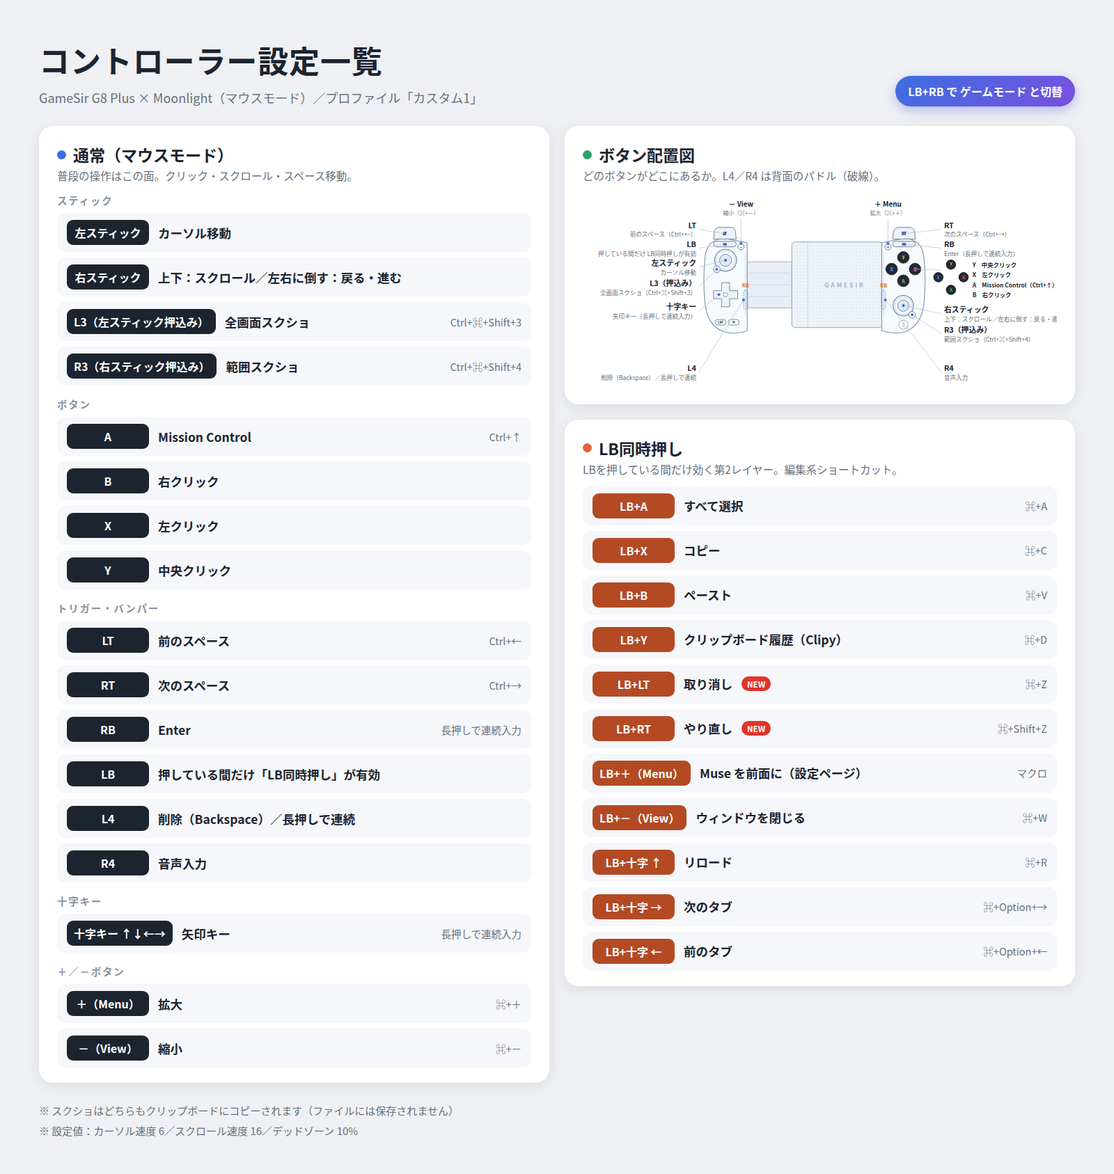
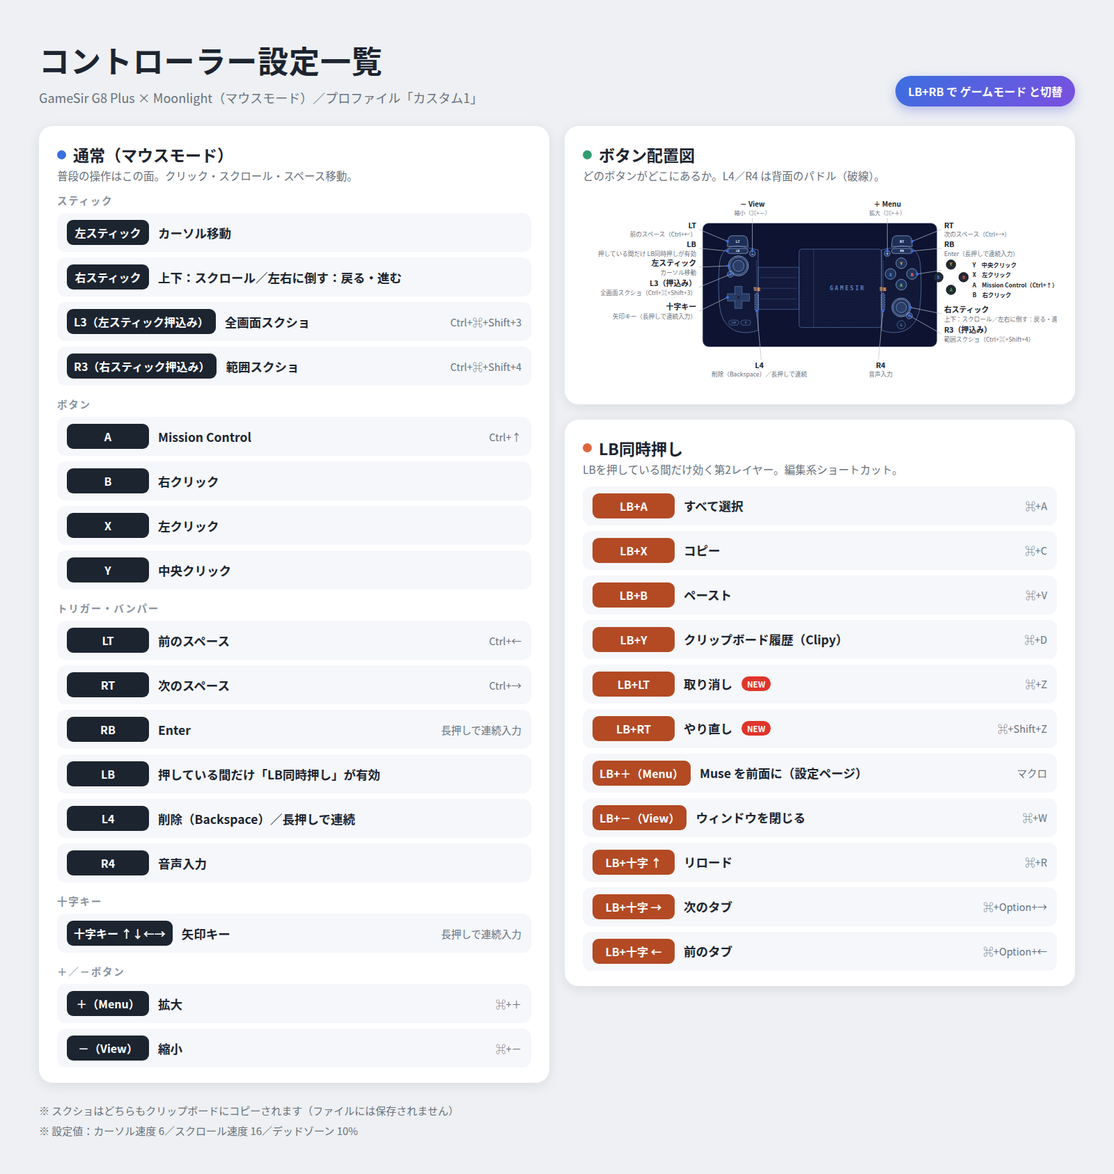
controller-map 案3: 配置図をSpaceのSVGそのものに差し替え（濃紺パネル無改変配置）

Changed region(s): [[0.625, 0.1541, 0.8438, 0.3391], [0.8438, 0.3082, 0.875, 0.3391], [0.5938, 0.3082, 0.625, 0.3391]]

diff --git a/controller-map/v3.html b/controller-map/v3.html
@@ -2,6 +2,8 @@
 <html lang="ja">
 <head>
 <meta charset="utf-8">
+<link rel="preconnect" href="https://fonts.googleapis.com">
+<link href="https://fonts.googleapis.com/css2?family=JetBrains+Mono:wght@700&family=Zen+Kaku+Gothic+New:wght@900&display=swap" rel="stylesheet">
 <title>コントローラー設定一覧｜案</title>
 <style>
 
@@ -51,77 +53,78 @@ footer { margin-top: 4px; font-size: 15px; color: #68707c; line-height: 1.9; }
     <div class="card diagram">
       <h2><span class="dot"></span>ボタン配置図</h2>
       <p class="lead">どのボタンがどこにあるか。L4／R4 は背面のパドル（破線）。</p>
-      <svg viewBox="0 0 1504 640">
-<g transform="translate(166.6 19.5) scale(1.16)">
+      <svg viewBox="0 0 1504 640"><rect x="380" y="96" width="744" height="393.2" rx="20" fill="#0d1330" stroke="#c9d2de" stroke-width="1.5"/><clipPath id="panel-clip"><rect x="380" y="96" width="744" height="393.2" rx="20"/></clipPath><g clip-path="url(#panel-clip)"><g transform="translate(231.2 53.5) scale(1.06286)">
   <defs>
     <pattern id="plate-dots" width="9" height="9" patternUnits="userSpaceOnUse">
-      <circle cx="2" cy="2" r="1" fill="#b9c8da"/>
+      <circle cx="2" cy="2" r="1" fill="rgba(140,170,230,0.13)"/>
     </pattern>
     <pattern id="back-hatch" width="6" height="6" patternUnits="userSpaceOnUse" patternTransform="rotate(45)">
-      <line x1="0" y1="0" x2="0" y2="6" stroke="rgba(59,111,224,0.45)" stroke-width="2"/>
+      <line x1="0" y1="0" x2="0" y2="6" stroke="rgba(160,190,255,0.55)" stroke-width="2"/>
     </pattern>
   </defs>
-  <rect x="306" y="172" width="122" height="126" fill="#e8eef5" stroke="#93a5bb" stroke-width="1.6"/>
-  <g stroke="#b9c6d6" stroke-width="1">
-    <line x1="312" y1="203" x2="422" y2="203"/><line x1="312" y1="235" x2="422" y2="235"/><line x1="312" y1="267" x2="422" y2="267"/>
+  <rect x="306" y="172" width="122" height="126" fill="rgba(120,160,255,0.06)" stroke="#5f7bb3" stroke-width="1.2"/>
+  <g stroke="#5f7bb3" stroke-width="1" opacity="0.7">
+    <line x1="312" y1="203" x2="422" y2="203"/>
+    <line x1="312" y1="235" x2="422" y2="235"/>
+    <line x1="312" y1="267" x2="422" y2="267"/>
   </g>
-  <rect x="428" y="118" width="246" height="234" rx="8" fill="#eef3f8" stroke="#93a5bb" stroke-width="1.9"/>
+  <rect x="428" y="118" width="246" height="234" rx="8" fill="rgba(120,160,255,0.04)" stroke="#5f7bb3" stroke-width="1.4"/>
   <rect x="428" y="118" width="246" height="234" rx="8" fill="url(#plate-dots)"/>
-  <line x1="472" y1="118" x2="472" y2="352" stroke="#b9c6d6" stroke-width="1"/>
-  <text x="573" y="235" text-anchor="middle" dominant-baseline="central" font-size="17" letter-spacing="5" fill="#a7b8cc" font-weight="700">GAMESIR</text>
-  <path d="M306 120 L244 108 Q198 110 191 156 Q184 226 191 288 Q198 348 244 364 Q276 372 306 360 Z" fill="#f7fafc" stroke="#7e93ad" stroke-width="2.1"/>
-  <path d="M674 120 L736 108 Q782 110 789 156 Q796 226 789 288 Q782 348 736 364 Q704 372 674 360 Z" fill="#f7fafc" stroke="#7e93ad" stroke-width="2.1"/>
-  <g stroke="#b9c6d6" stroke-width="1"><line x1="301" y1="150" x2="301" y2="320"/><line x1="679" y1="150" x2="679" y2="320"/></g>
-  <g>
-    <path d="M214 110 L216 90 Q218 78 230 78 L260 78 Q272 78 274 90 L276 110 Z" fill="#eef2f7" stroke="#637b96" stroke-width="1.8"/>
-    <text x="245" y="95" text-anchor="middle" dominant-baseline="central" font-size="11" font-weight="700" fill="#1c2430">LT</text>
-    <rect x="214" y="116" width="62" height="15" rx="7.5" fill="#eef2f7" stroke="#637b96" stroke-width="1.8"/>
-    <text x="245" y="124" text-anchor="middle" dominant-baseline="central" font-size="9" font-weight="700" fill="#1c2430">LB</text>
-    <path d="M704 110 L706 90 Q708 78 720 78 L750 78 Q762 78 764 90 L766 110 Z" fill="#eef2f7" stroke="#637b96" stroke-width="1.8"/>
-    <text x="735" y="95" text-anchor="middle" dominant-baseline="central" font-size="11" font-weight="700" fill="#1c2430">RT</text>
-    <rect x="704" y="116" width="62" height="15" rx="7.5" fill="#eef2f7" stroke="#637b96" stroke-width="1.8"/>
-    <text x="735" y="124" text-anchor="middle" dominant-baseline="central" font-size="9" font-weight="700" fill="#1c2430">RB</text>
+  <line x1="472" y1="118" x2="472" y2="352" stroke="#5f7bb3" stroke-width="1" opacity="0.7"/>
+  <text x="573" y="235" text-anchor="middle" dominant-baseline="central" font-size="17" letter-spacing="5" fill="#5f7bb3" font-weight="700" style="font-family:'JetBrains Mono',monospace">GAMESIR</text>
+  <path d="M306 120 L244 108 Q198 110 191 156 Q184 226 191 288 Q198 348 244 364 Q276 372 306 360 Z" fill="rgba(120,160,255,0.04)" stroke="#5f7bb3" stroke-width="1.6"/>
+  <path d="M674 120 L736 108 Q782 110 789 156 Q796 226 789 288 Q782 348 736 364 Q704 372 674 360 Z" fill="rgba(120,160,255,0.04)" stroke="#5f7bb3" stroke-width="1.6"/>
+  <g stroke="#5f7bb3" stroke-width="1" opacity="0.8">
+    <line x1="301" y1="150" x2="301" y2="320"/>
+    <line x1="679" y1="150" x2="679" y2="320"/>
   </g>
-  <g>
-    <circle cx="247" cy="168" r="30" fill="#f2f6fa" stroke="#637b96" stroke-width="2.0"/>
-    <circle cx="247" cy="168" r="26" fill="none" stroke="#c2d0e0" stroke-width="1.6"/>
-    <circle cx="247" cy="168" r="16.5" fill="#dfe8f2" stroke="#637b96" stroke-width="1.6"/>
-    <circle cx="223" cy="193" r="9" fill="#ffffff" stroke="#637b96" stroke-width="1.8"/>
-    <circle cx="733" cy="292" r="28" fill="#f2f6fa" stroke="#637b96" stroke-width="2.0"/>
-    <circle cx="733" cy="292" r="24" fill="none" stroke="#c2d0e0" stroke-width="1.6"/>
-    <circle cx="733" cy="292" r="15.4" fill="#dfe8f2" stroke="#637b96" stroke-width="1.6"/>
-    <circle cx="757" cy="317" r="9" fill="#ffffff" stroke="#637b96" stroke-width="1.8"/>
-  </g>
-  <circle cx="289" cy="131" r="8.5" fill="#ffffff" stroke="#637b96" stroke-width="1.8"/>
-  <text x="289" y="132" text-anchor="middle" dominant-baseline="central" font-size="11" font-weight="700" fill="#1c2430">−</text>
-  <path d="M236 229 h22 v22 h22 v22 h-22 v22 h-22 v-22 h-22 v-22 h22 Z" fill="#eef2f7" stroke="#637b96" stroke-width="1.7"/>
-  <circle cx="247" cy="262" r="6" fill="#ffffff" stroke="#637b96" stroke-width="1.4"/>
-  <g>
-    <rect x="218" y="330" width="30" height="15" rx="7.5" fill="#ffffff" stroke="#637b96" stroke-width="1.7"/>
-    <text x="233" y="338" text-anchor="middle" dominant-baseline="central" font-size="8" font-weight="700" fill="#1c2430">CAP</text>
-    <rect x="254" y="330" width="30" height="15" rx="7.5" fill="#ffffff" stroke="#637b96" stroke-width="1.7"/>
-    <text x="269" y="338" text-anchor="middle" dominant-baseline="central" font-size="8" font-weight="700" fill="#1c2430">M</text>
-  </g>
-  <rect x="296" y="250" width="11" height="52" rx="5" fill="url(#back-hatch)" stroke="#3b6fe0" stroke-width="1.3" stroke-dasharray="4 3"/>
-  <rect x="673" y="250" width="11" height="52" rx="5" fill="url(#back-hatch)" stroke="#3b6fe0" stroke-width="1.3" stroke-dasharray="4 3"/>
-  <text x="301" y="240" text-anchor="middle" font-size="10" font-weight="900" fill="#d97a2b">背面</text>
-  <text x="679" y="240" text-anchor="middle" font-size="10" font-weight="900" fill="#d97a2b">背面</text>
-  <circle cx="691" cy="131" r="8.5" fill="#ffffff" stroke="#637b96" stroke-width="1.8"/>
-  <text x="691" y="132" text-anchor="middle" dominant-baseline="central" font-size="10" font-weight="700" fill="#1c2430">＋</text>
-  <g>
-    <circle cx="733" cy="160" r="16" fill="#232a35" stroke="#10151c" stroke-width="1.4"/>
-    <text x="733" y="161" text-anchor="middle" dominant-baseline="central" font-size="13" font-weight="700" fill="#f5c542">Y</text>
-    <circle cx="701" cy="192" r="16" fill="#232a35" stroke="#10151c" stroke-width="1.4"/>
-    <text x="701" y="193" text-anchor="middle" dominant-baseline="central" font-size="13" font-weight="700" fill="#5b9dff">X</text>
-    <circle cx="765" cy="192" r="16" fill="#232a35" stroke="#10151c" stroke-width="1.4"/>
-    <text x="765" y="193" text-anchor="middle" dominant-baseline="central" font-size="13" font-weight="700" fill="#ff6b5e">B</text>
-    <circle cx="733" cy="224" r="16" fill="#232a35" stroke="#10151c" stroke-width="1.4"/>
-    <text x="733" y="225" text-anchor="middle" dominant-baseline="central" font-size="13" font-weight="700" fill="#7ac74f">A</text>
-  </g>
-  <circle cx="733" cy="344" r="12.5" fill="#ffffff" stroke="#93a5bb" stroke-width="1.9"/>
-  <text x="733" y="345" text-anchor="middle" dominant-baseline="central" font-size="11" font-weight="700" fill="#a7b8cc">G</text>
-</g>
-<text x="502" y="44" text-anchor="middle" font-size="22" font-weight="700" fill="#1c2430">－ View</text><text x="502" y="70" text-anchor="middle" font-size="17.5" fill="#68707c">縮小（⌘+－）</text><line x1="502" y1="80" x2="502" y2="161" stroke="#b6bfca" stroke-width="1.6"/><circle cx="502" cy="161" r="4.5" fill="#3b6fe0"/><text x="968" y="44" text-anchor="middle" font-size="22" font-weight="700" fill="#1c2430">＋ Menu</text><text x="968" y="70" text-anchor="middle" font-size="17.5" fill="#68707c">拡大（⌘+＋）</text><line x1="968" y1="80" x2="968" y2="161" stroke="#b6bfca" stroke-width="1.6"/><circle cx="968" cy="161" r="4.5" fill="#3b6fe0"/><text x="360" y="112" text-anchor="end" font-size="24" font-weight="700" fill="#1c2430">LT</text><text x="360" y="140" text-anchor="end" font-size="19" fill="#68707c">前のスペース（Ctrl+←）</text><line x1="368" y1="116" x2="451" y2="130" stroke="#b6bfca" stroke-width="1.6"/><circle cx="451" cy="130" r="4.5" fill="#3b6fe0"/><text x="360" y="172" text-anchor="end" font-size="24" font-weight="700" fill="#1c2430">LB</text><text x="360" y="200" text-anchor="end" font-size="19" fill="#68707c">押している間だけ LB同時押しが有効</text><line x1="368" y1="176" x2="451" y2="163" stroke="#b6bfca" stroke-width="1.6"/><circle cx="451" cy="163" r="4.5" fill="#3b6fe0"/><text x="360" y="232" text-anchor="end" font-size="24" font-weight="700" fill="#1c2430">左スティック</text><text x="360" y="260" text-anchor="end" font-size="19" fill="#68707c">カーソル移動</text><line x1="368" y1="236" x2="453" y2="214" stroke="#b6bfca" stroke-width="1.6"/><circle cx="453" cy="214" r="4.5" fill="#3b6fe0"/><text x="360" y="296" text-anchor="end" font-size="24" font-weight="700" fill="#1c2430">L3（押込み）</text><text x="360" y="324" text-anchor="end" font-size="19" fill="#68707c">全画面スクショ（Ctrl+⌘+Shift+3）</text><line x1="368" y1="300" x2="425" y2="243" stroke="#b6bfca" stroke-width="1.6"/><circle cx="425" cy="243" r="4.5" fill="#3b6fe0"/><text x="360" y="372" text-anchor="end" font-size="24" font-weight="700" fill="#1c2430">十字キー</text><text x="360" y="400" text-anchor="end" font-size="19" fill="#68707c">矢印キー（長押しで連続入力）</text><line x1="368" y1="376" x2="432" y2="323" stroke="#b6bfca" stroke-width="1.6"/><circle cx="432" cy="323" r="4.5" fill="#3b6fe0"/><text x="1146" y="112" font-size="24" font-weight="700" fill="#1c2430">RT</text><text x="1146" y="140" font-size="19" fill="#68707c">次のスペース（Ctrl+→）</text><line x1="1019" y1="130" x2="1138" y2="116" stroke="#b6bfca" stroke-width="1.6"/><circle cx="1019" cy="130" r="4.5" fill="#3b6fe0"/><text x="1146" y="172" font-size="24" font-weight="700" fill="#1c2430">RB</text><text x="1146" y="200" font-size="19" fill="#68707c">Enter（長押しで連続入力）</text><line x1="1019" y1="163" x2="1138" y2="176" stroke="#b6bfca" stroke-width="1.6"/><circle cx="1019" cy="163" r="4.5" fill="#3b6fe0"/><line x1="1054" y1="242" x2="1138" y2="246" stroke="#b6bfca" stroke-width="1.6"/><circle cx="1054" cy="242" r="4.5" fill="#3b6fe0"/><circle cx="1168" cy="228" r="15" fill="#232a35" stroke="#10151c" stroke-width="2"/><text x="1168" y="233" text-anchor="middle" font-size="13.5" font-weight="700" fill="#e8a90c">Y</text><circle cx="1128" cy="268" r="15" fill="#232a35" stroke="#10151c" stroke-width="2"/><text x="1128" y="273" text-anchor="middle" font-size="13.5" font-weight="700" fill="#3d8bfd">X</text><circle cx="1208" cy="268" r="15" fill="#232a35" stroke="#10151c" stroke-width="2"/><text x="1208" y="273" text-anchor="middle" font-size="13.5" font-weight="700" fill="#e0524d">B</text><circle cx="1168" cy="308" r="15" fill="#232a35" stroke="#10151c" stroke-width="2"/><text x="1168" y="313" text-anchor="middle" font-size="13.5" font-weight="700" fill="#4caf50">A</text><text x="1236" y="236" font-size="18.5" font-weight="700" fill="#1c2430">Y　中央クリック</text><text x="1236" y="268" font-size="18.5" font-weight="700" fill="#1c2430">X　左クリック</text><text x="1236" y="300" font-size="18.5" font-weight="700" fill="#1c2430">A　Mission Control（Ctrl+↑）</text><text x="1236" y="332" font-size="18.5" font-weight="700" fill="#1c2430">B　右クリック</text><text x="1146" y="380" font-size="24" font-weight="700" fill="#1c2430">右スティック</text><text x="1146" y="408" font-size="19" fill="#68707c">上下：スクロール／左右に倒す：戻る・進む</text><line x1="1017" y1="358" x2="1138" y2="384" stroke="#b6bfca" stroke-width="1.6"/><circle cx="1017" cy="358" r="4.5" fill="#3b6fe0"/><text x="1146" y="444" font-size="24" font-weight="700" fill="#1c2430">R3（押込み）</text><text x="1146" y="472" font-size="19" fill="#68707c">範囲スクショ（Ctrl+⌘+Shift+4）</text><line x1="1045" y1="387" x2="1138" y2="448" stroke="#b6bfca" stroke-width="1.6"/><circle cx="1045" cy="387" r="4.5" fill="#3b6fe0"/><text x="360" y="566" text-anchor="end" font-size="24" font-weight="700" fill="#1c2430">L4</text><text x="360" y="594" text-anchor="end" font-size="19" fill="#68707c">削除（Backspace）／長押しで連続</text><line x1="368" y1="570" x2="510" y2="340" stroke="#b6bfca" stroke-width="1.6"/><circle cx="510" cy="340" r="4.5" fill="#3b6fe0"/><text x="1146" y="566" font-size="24" font-weight="700" fill="#1c2430">R4</text><text x="1146" y="594" font-size="19" fill="#68707c">音声入力</text><line x1="960" y1="340" x2="1138" y2="570" stroke="#b6bfca" stroke-width="1.6"/><circle cx="960" cy="340" r="4.5" fill="#3b6fe0"/></svg>
+  <path d="M214 110 L216 90 Q218 78 230 78 L260 78 Q272 78 274 90 L276 110 Z" fill="rgba(109,179,255,0.18)" stroke="#9db8e8" stroke-width="1.4"/>
+  <text x="245" y="95" text-anchor="middle" dominant-baseline="central" font-size="11" font-weight="700" fill="#eef2ff" style="font-family:'JetBrains Mono',monospace">LT</text>
+  <rect x="214" y="116" width="62" height="15" rx="7.5" fill="rgba(109,179,255,0.18)" stroke="#9db8e8" stroke-width="1.4"/>
+  <text x="245" y="124" text-anchor="middle" dominant-baseline="central" font-size="9" font-weight="700" fill="#eef2ff" style="font-family:'JetBrains Mono',monospace">LB</text>
+  <path d="M704 110 L706 90 Q708 78 720 78 L750 78 Q762 78 764 90 L766 110 Z" fill="rgba(109,179,255,0.18)" stroke="#9db8e8" stroke-width="1.4"/>
+  <text x="735" y="95" text-anchor="middle" dominant-baseline="central" font-size="11" font-weight="700" fill="#eef2ff" style="font-family:'JetBrains Mono',monospace">RT</text>
+  <rect x="704" y="116" width="62" height="15" rx="7.5" fill="rgba(109,179,255,0.18)" stroke="#9db8e8" stroke-width="1.4"/>
+  <text x="735" y="124" text-anchor="middle" dominant-baseline="central" font-size="9" font-weight="700" fill="#eef2ff" style="font-family:'JetBrains Mono',monospace">RB</text>
+  <circle cx="247" cy="168" r="30" fill="rgba(109,179,255,0.18)" stroke="#9db8e8" stroke-width="1.6"/>
+  <circle cx="247" cy="168" r="26" fill="none" stroke="#d7e3ff" stroke-width="1.6" opacity="0.55"/>
+  <circle cx="247" cy="168" r="16.5" fill="rgba(140,170,230,0.10)" stroke="#9db8e8" stroke-width="1.2"/>
+  <circle cx="223" cy="193" r="9" fill="rgba(109,179,255,0.18)" stroke="#9db8e8" stroke-width="1.4"/>
+  <circle cx="289" cy="131" r="8.5" fill="rgba(109,179,255,0.18)" stroke="#9db8e8" stroke-width="1.4"/>
+  <text x="289" y="132" text-anchor="middle" dominant-baseline="central" font-size="11" font-weight="700" fill="#eef2ff" style="font-family:'JetBrains Mono',monospace">−</text>
+  <path d="M236 229 h22 v22 h22 v22 h-22 v22 h-22 v-22 h-22 v-22 h22 Z" fill="rgba(140,170,230,0.07)" stroke="#5f7bb3" stroke-width="1.3"/>
+  <rect x="236" y="229" width="22" height="26" fill="rgba(109,179,255,0.18)" stroke="none"/>
+  <rect x="214" y="251" width="26" height="22" fill="rgba(109,179,255,0.18)" stroke="none"/>
+  <rect x="254" y="251" width="26" height="22" fill="rgba(109,179,255,0.18)" stroke="none"/>
+  <rect x="236" y="269" width="22" height="26" fill="rgba(109,179,255,0.18)" stroke="none"/>
+  <circle cx="247" cy="262" r="6" fill="none" stroke="#5f7bb3" stroke-width="1"/>
+  <rect x="218" y="330" width="30" height="15" rx="7.5" fill="rgba(140,170,230,0.03)" stroke="#5f7bb3" stroke-width="1.3"/>
+  <text x="233" y="338" text-anchor="middle" dominant-baseline="central" font-size="8" font-weight="700" fill="#5f7bb3" style="font-family:'JetBrains Mono',monospace">CAP</text>
+  <rect x="254" y="330" width="30" height="15" rx="7.5" fill="rgba(140,170,230,0.03)" stroke="#5f7bb3" stroke-width="1.3"/>
+  <text x="269" y="338" text-anchor="middle" dominant-baseline="central" font-size="8" font-weight="700" fill="#5f7bb3" style="font-family:'JetBrains Mono',monospace">M</text>
+  <rect x="296" y="250" width="11" height="52" rx="5" fill="rgba(109,179,255,0.18)" stroke="none"/>
+  <rect x="296" y="250" width="11" height="52" rx="5" fill="url(#back-hatch)" stroke="#9db8e8" stroke-width="1.3" stroke-dasharray="4 3"/>
+  <rect x="673" y="250" width="11" height="52" rx="5" fill="rgba(109,179,255,0.18)" stroke="none"/>
+  <rect x="673" y="250" width="11" height="52" rx="5" fill="url(#back-hatch)" stroke="#9db8e8" stroke-width="1.3" stroke-dasharray="4 3"/>
+  <text x="301" y="240" text-anchor="middle" font-size="10" font-weight="900" fill="#ffb86b" style="font-family:'Zen Kaku Gothic New',sans-serif">背面</text>
+  <text x="679" y="240" text-anchor="middle" font-size="10" font-weight="900" fill="#ffb86b" style="font-family:'Zen Kaku Gothic New',sans-serif">背面</text>
+  <circle cx="691" cy="131" r="8.5" fill="rgba(109,179,255,0.18)" stroke="#9db8e8" stroke-width="1.4"/>
+  <text x="691" y="132" text-anchor="middle" dominant-baseline="central" font-size="10" font-weight="700" fill="#eef2ff" style="font-family:'JetBrains Mono',monospace">＋</text>
+  <circle cx="733" cy="160" r="16" fill="rgba(109,179,255,0.18)" stroke="#9db8e8" stroke-width="1.4"/>
+  <text x="733" y="161" text-anchor="middle" dominant-baseline="central" font-size="13" font-weight="700" fill="#f5c542" style="font-family:'JetBrains Mono',monospace">Y</text>
+  <circle cx="701" cy="192" r="16" fill="rgba(109,179,255,0.18)" stroke="#9db8e8" stroke-width="1.4"/>
+  <text x="701" y="193" text-anchor="middle" dominant-baseline="central" font-size="13" font-weight="700" fill="#5b9dff" style="font-family:'JetBrains Mono',monospace">X</text>
+  <circle cx="765" cy="192" r="16" fill="rgba(109,179,255,0.18)" stroke="#9db8e8" stroke-width="1.4"/>
+  <text x="765" y="193" text-anchor="middle" dominant-baseline="central" font-size="13" font-weight="700" fill="#ff6b5e" style="font-family:'JetBrains Mono',monospace">B</text>
+  <circle cx="733" cy="224" r="16" fill="rgba(109,179,255,0.18)" stroke="#9db8e8" stroke-width="1.4"/>
+  <text x="733" y="225" text-anchor="middle" dominant-baseline="central" font-size="13" font-weight="700" fill="#7ac74f" style="font-family:'JetBrains Mono',monospace">A</text>
+  <circle cx="733" cy="292" r="28" fill="rgba(109,179,255,0.18)" stroke="#9db8e8" stroke-width="1.6"/>
+  <circle cx="733" cy="292" r="24" fill="none" stroke="#d7e3ff" stroke-width="1.6" opacity="0.55"/>
+  <circle cx="733" cy="292" r="15.4" fill="rgba(140,170,230,0.10)" stroke="#9db8e8" stroke-width="1.2"/>
+  <circle cx="757" cy="317" r="9" fill="rgba(109,179,255,0.18)" stroke="#9db8e8" stroke-width="1.4"/>
+  <circle cx="733" cy="344" r="12.5" fill="rgba(140,170,230,0.03)" stroke="#5f7bb3" stroke-width="1.4"/>
+  <text x="733" y="345" text-anchor="middle" dominant-baseline="central" font-size="11" font-weight="700" fill="#5f7bb3" style="font-family:'JetBrains Mono',monospace">G</text>
+</g></g><text x="538" y="44" text-anchor="middle" font-size="22" font-weight="700" fill="#1c2430">－ View</text><text x="538" y="70" text-anchor="middle" font-size="17.5" fill="#68707c">縮小（⌘+－）</text><line x1="538" y1="80" x2="538" y2="184" stroke="#b6bfca" stroke-width="1.6"/><circle cx="538" cy="184" r="4.5" fill="#3b6fe0"/><text x="966" y="44" text-anchor="middle" font-size="22" font-weight="700" fill="#1c2430">＋ Menu</text><text x="966" y="70" text-anchor="middle" font-size="17.5" fill="#68707c">拡大（⌘+＋）</text><line x1="966" y1="80" x2="966" y2="184" stroke="#b6bfca" stroke-width="1.6"/><circle cx="966" cy="184" r="4.5" fill="#3b6fe0"/><text x="360" y="112" text-anchor="end" font-size="24" font-weight="700" fill="#1c2430">LT</text><text x="360" y="140" text-anchor="end" font-size="19" fill="#68707c">前のスペース（Ctrl+←）</text><line x1="368" y1="116" x2="459" y2="154" stroke="#b6bfca" stroke-width="1.6"/><circle cx="459" cy="154" r="4.5" fill="#3b6fe0"/><text x="360" y="172" text-anchor="end" font-size="24" font-weight="700" fill="#1c2430">LB</text><text x="360" y="200" text-anchor="end" font-size="19" fill="#68707c">押している間だけ LB同時押しが有効</text><line x1="368" y1="176" x2="459" y2="185" stroke="#b6bfca" stroke-width="1.6"/><circle cx="459" cy="185" r="4.5" fill="#3b6fe0"/><text x="360" y="232" text-anchor="end" font-size="24" font-weight="700" fill="#1c2430">左スティック</text><text x="360" y="260" text-anchor="end" font-size="19" fill="#68707c">カーソル移動</text><line x1="368" y1="236" x2="462" y2="232" stroke="#b6bfca" stroke-width="1.6"/><circle cx="462" cy="232" r="4.5" fill="#3b6fe0"/><text x="360" y="296" text-anchor="end" font-size="24" font-weight="700" fill="#1c2430">L3（押込み）</text><text x="360" y="324" text-anchor="end" font-size="19" fill="#68707c">全画面スクショ（Ctrl+⌘+Shift+3）</text><line x1="368" y1="300" x2="468" y2="259" stroke="#b6bfca" stroke-width="1.6"/><circle cx="468" cy="259" r="4.5" fill="#3b6fe0"/><text x="360" y="372" text-anchor="end" font-size="24" font-weight="700" fill="#1c2430">十字キー</text><text x="360" y="400" text-anchor="end" font-size="19" fill="#68707c">矢印キー（長押しで連続入力）</text><line x1="368" y1="376" x2="459" y2="332" stroke="#b6bfca" stroke-width="1.6"/><circle cx="459" cy="332" r="4.5" fill="#3b6fe0"/><text x="1146" y="112" font-size="24" font-weight="700" fill="#1c2430">RT</text><text x="1146" y="140" font-size="19" fill="#68707c">次のスペース（Ctrl+→）</text><line x1="1045" y1="154" x2="1138" y2="116" stroke="#b6bfca" stroke-width="1.6"/><circle cx="1045" cy="154" r="4.5" fill="#3b6fe0"/><text x="1146" y="172" font-size="24" font-weight="700" fill="#1c2430">RB</text><text x="1146" y="200" font-size="19" fill="#68707c">Enter（長押しで連続入力）</text><line x1="1045" y1="185" x2="1138" y2="176" stroke="#b6bfca" stroke-width="1.6"/><circle cx="1045" cy="185" r="4.5" fill="#3b6fe0"/><line x1="1061" y1="258" x2="1138" y2="246" stroke="#b6bfca" stroke-width="1.6"/><circle cx="1061" cy="258" r="4.5" fill="#3b6fe0"/><circle cx="1168" cy="228" r="15" fill="#232a35" stroke="#10151c" stroke-width="2"/><text x="1168" y="233" text-anchor="middle" font-size="13.5" font-weight="700" fill="#e8a90c">Y</text><circle cx="1128" cy="268" r="15" fill="#232a35" stroke="#10151c" stroke-width="2"/><text x="1128" y="273" text-anchor="middle" font-size="13.5" font-weight="700" fill="#3d8bfd">X</text><circle cx="1208" cy="268" r="15" fill="#232a35" stroke="#10151c" stroke-width="2"/><text x="1208" y="273" text-anchor="middle" font-size="13.5" font-weight="700" fill="#e0524d">B</text><circle cx="1168" cy="308" r="15" fill="#232a35" stroke="#10151c" stroke-width="2"/><text x="1168" y="313" text-anchor="middle" font-size="13.5" font-weight="700" fill="#4caf50">A</text><text x="1236" y="236" font-size="18.5" font-weight="700" fill="#1c2430">Y　中央クリック</text><text x="1236" y="268" font-size="18.5" font-weight="700" fill="#1c2430">X　左クリック</text><text x="1236" y="300" font-size="18.5" font-weight="700" fill="#1c2430">A　Mission Control（Ctrl+↑）</text><text x="1236" y="332" font-size="18.5" font-weight="700" fill="#1c2430">B　右クリック</text><text x="1146" y="380" font-size="24" font-weight="700" fill="#1c2430">右スティック</text><text x="1146" y="408" font-size="19" fill="#68707c">上下：スクロール／左右に倒す：戻る・進む</text><line x1="1040" y1="364" x2="1138" y2="384" stroke="#b6bfca" stroke-width="1.6"/><circle cx="1040" cy="364" r="4.5" fill="#3b6fe0"/><text x="1146" y="444" font-size="24" font-weight="700" fill="#1c2430">R3（押込み）</text><text x="1146" y="472" font-size="19" fill="#68707c">範囲スクショ（Ctrl+⌘+Shift+4）</text><line x1="1036" y1="390" x2="1138" y2="448" stroke="#b6bfca" stroke-width="1.6"/><circle cx="1036" cy="390" r="4.5" fill="#3b6fe0"/><line x1="552" y1="375" x2="566" y2="530" stroke="#b6bfca" stroke-width="1.6"/><circle cx="552" cy="375" r="4.5" fill="#3b6fe0"/><text x="560" y="556" text-anchor="middle" font-size="24" font-weight="700" fill="#1c2430">L4</text><text x="560" y="584" text-anchor="middle" font-size="19" fill="#68707c">削除（Backspace）／長押しで連続</text><line x1="952" y1="375" x2="938" y2="530" stroke="#b6bfca" stroke-width="1.6"/><circle cx="952" cy="375" r="4.5" fill="#3b6fe0"/><text x="945" y="556" text-anchor="middle" font-size="24" font-weight="700" fill="#1c2430">R4</text><text x="945" y="584" text-anchor="middle" font-size="19" fill="#68707c">音声入力</text></svg>
     </div>
     <div class="card lb">
       <h2><span class="dot"></span>LB同時押し</h2>
